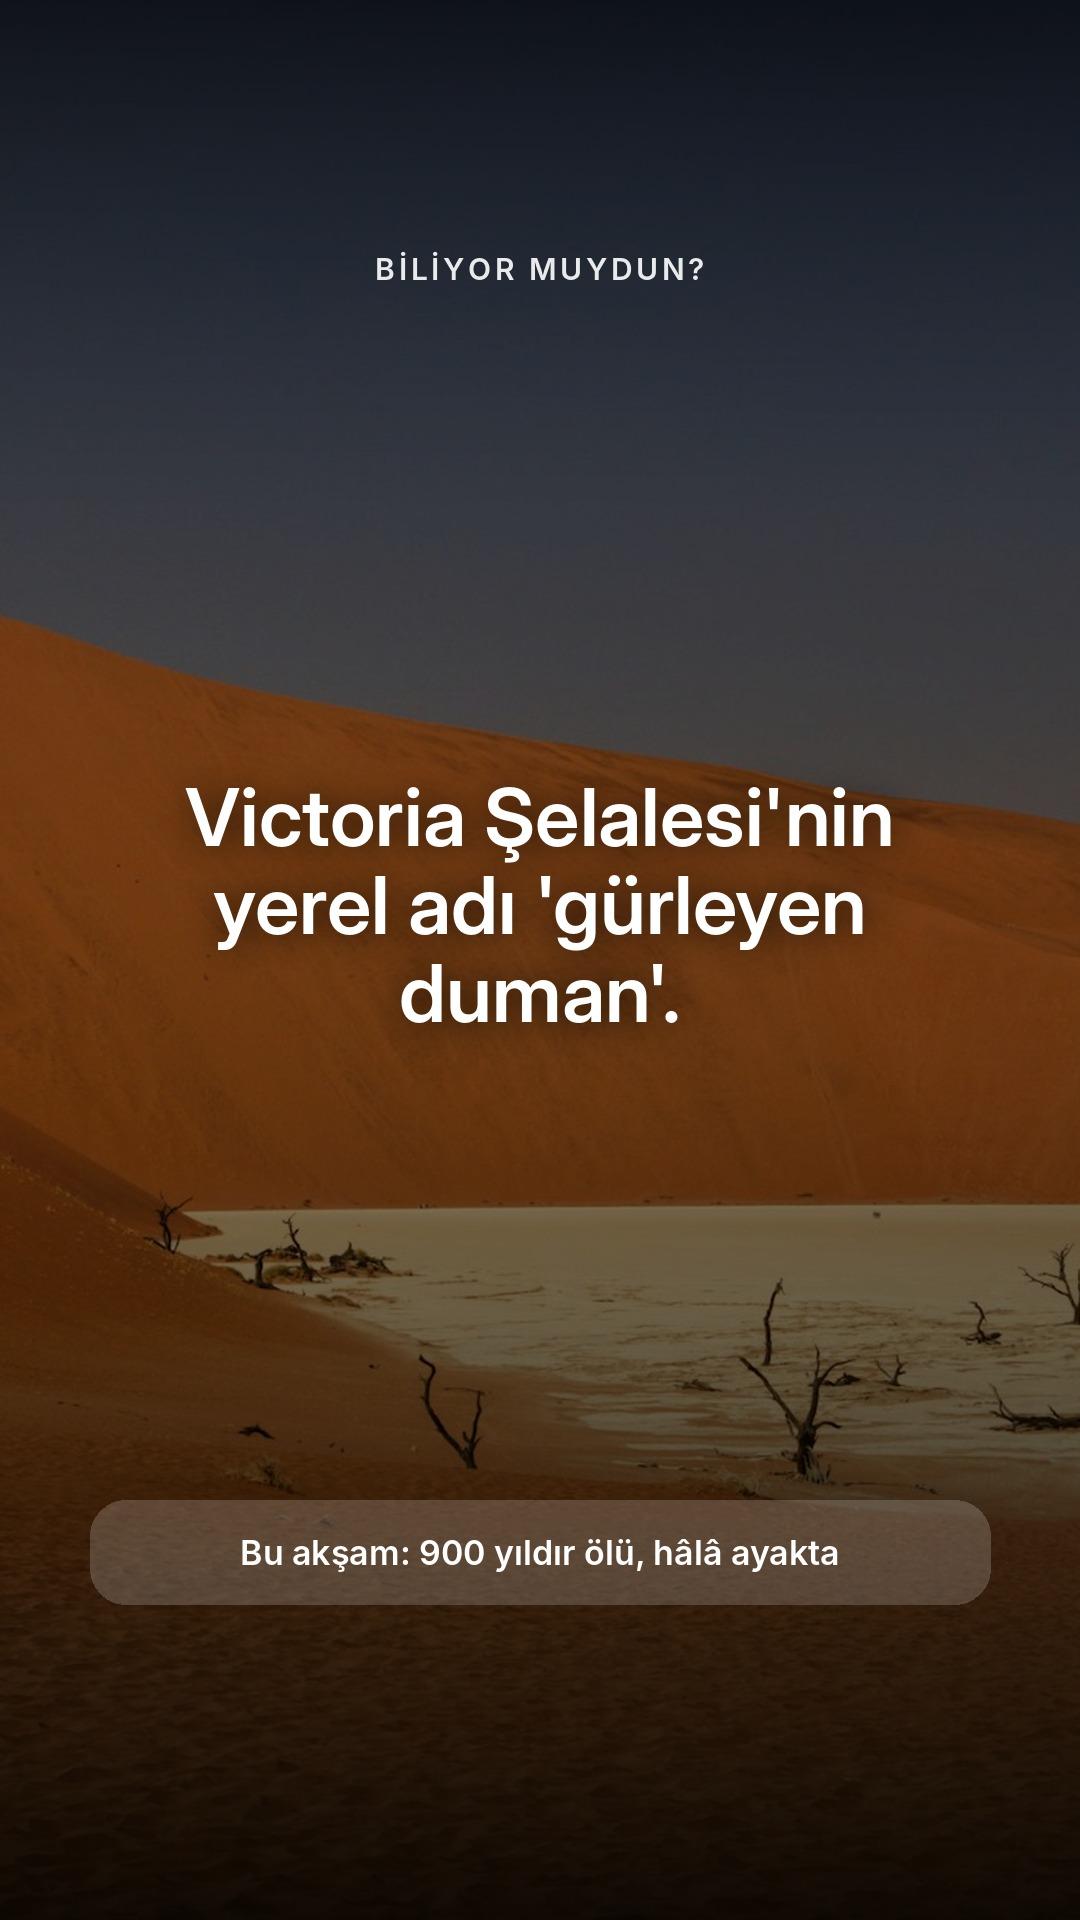
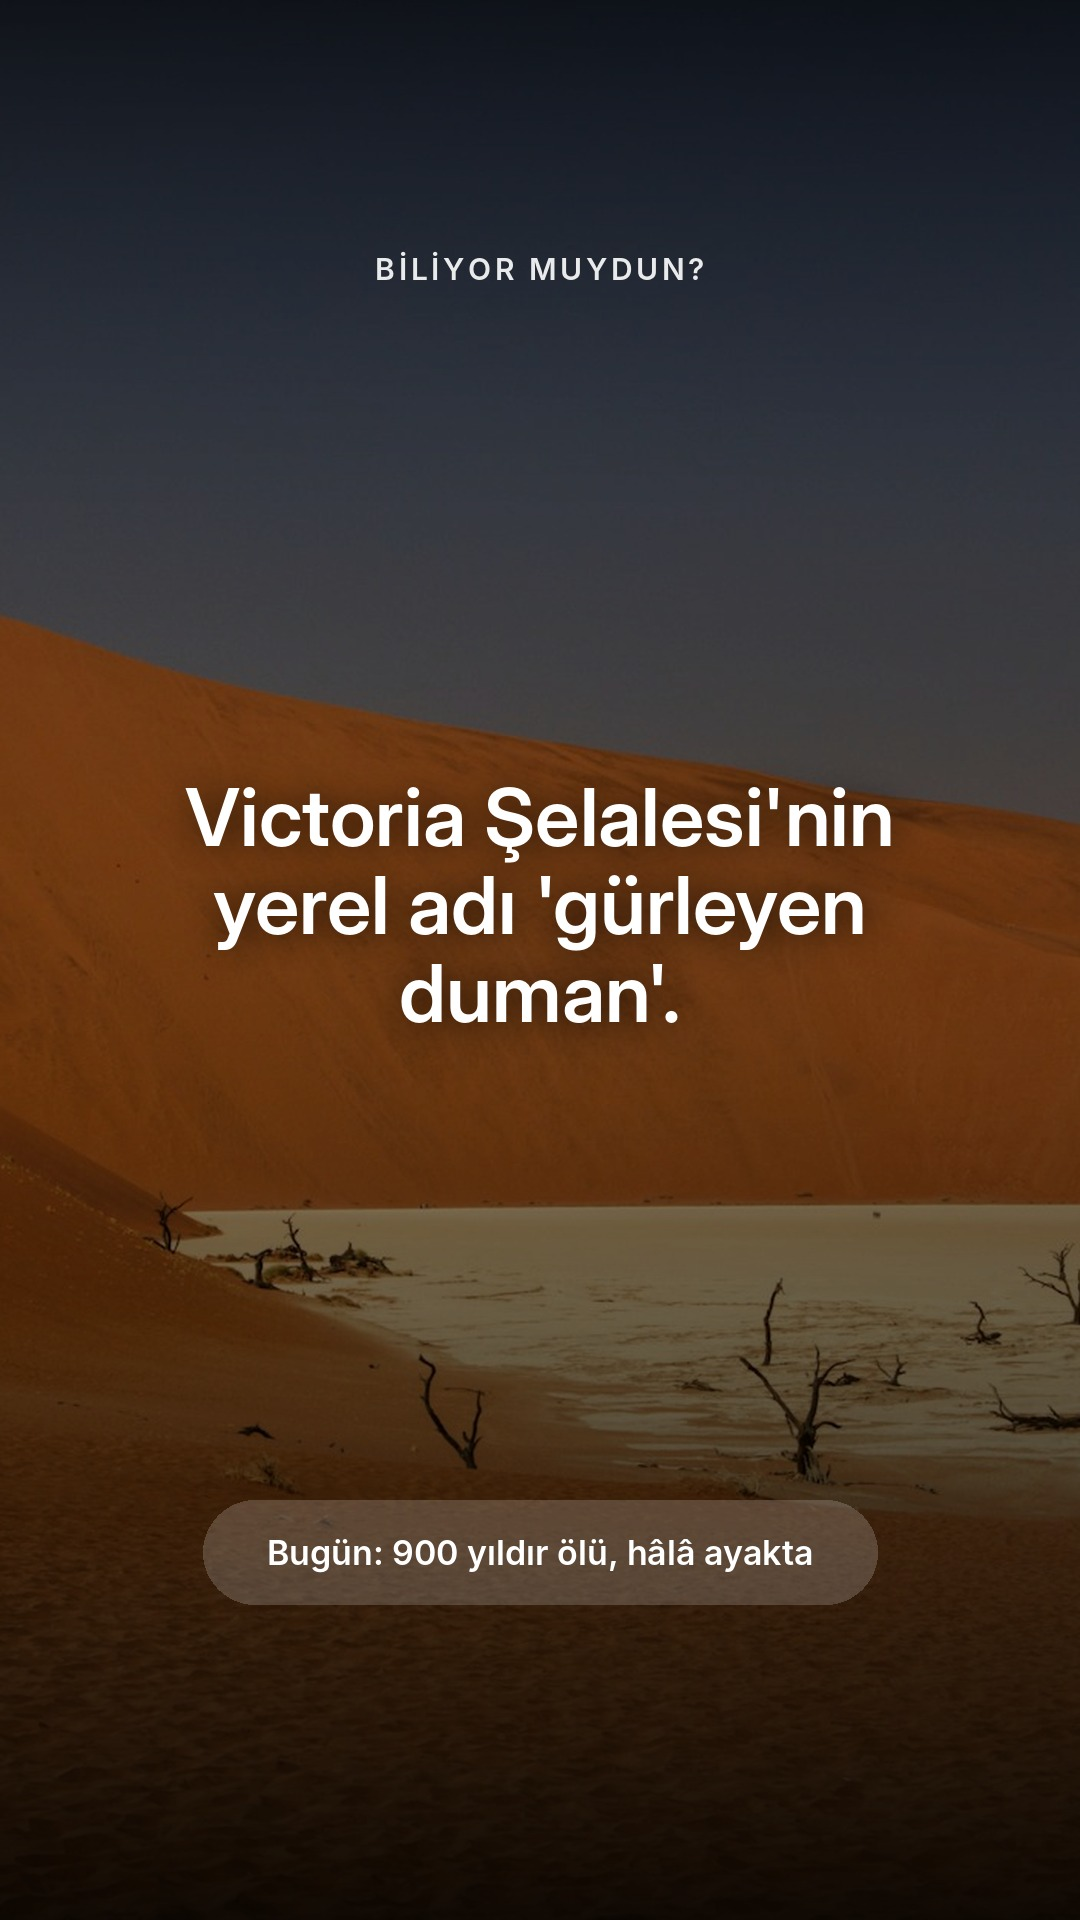
Takvim: Mısır (Luksor) 4 Aralık'a, Angkor 5 Aralık'a; 27 Kasım akşamı boş (Paris elle paylaşılacak). Öğlen hikayesine 'duyuru' alanı
Claude-Session: https://claude.ai/code/session_01Vt7T2YeVjfv653R3CgVxDB

Changed region(s): [[0.0611, 0.7812, 0.9167, 0.8438]]

diff --git a/araclar/uret.py b/araclar/uret.py
@@ -292,7 +292,7 @@ def ogle_story(veri):
     golge = Image.new("RGBA", STORY, (0, 0, 0, 0))
     golge.putalpha(yazi.getchannel("A").filter(ImageFilter.GaussianBlur(18)).point(lambda a: int(a * 0.75)))
     k = Image.alpha_composite(Image.alpha_composite(k, golge), yazi)
-    alt = "Bu akşam: " + veri["baslik"]
+    alt = o.get("duyuru", "Bu akşam: " + veri["baslik"])
     af = font(ARA, 34)
     ah = blok_yuksekligi(alt, af, genislik - 80, 1.2)
     kutu_y = h - 420
